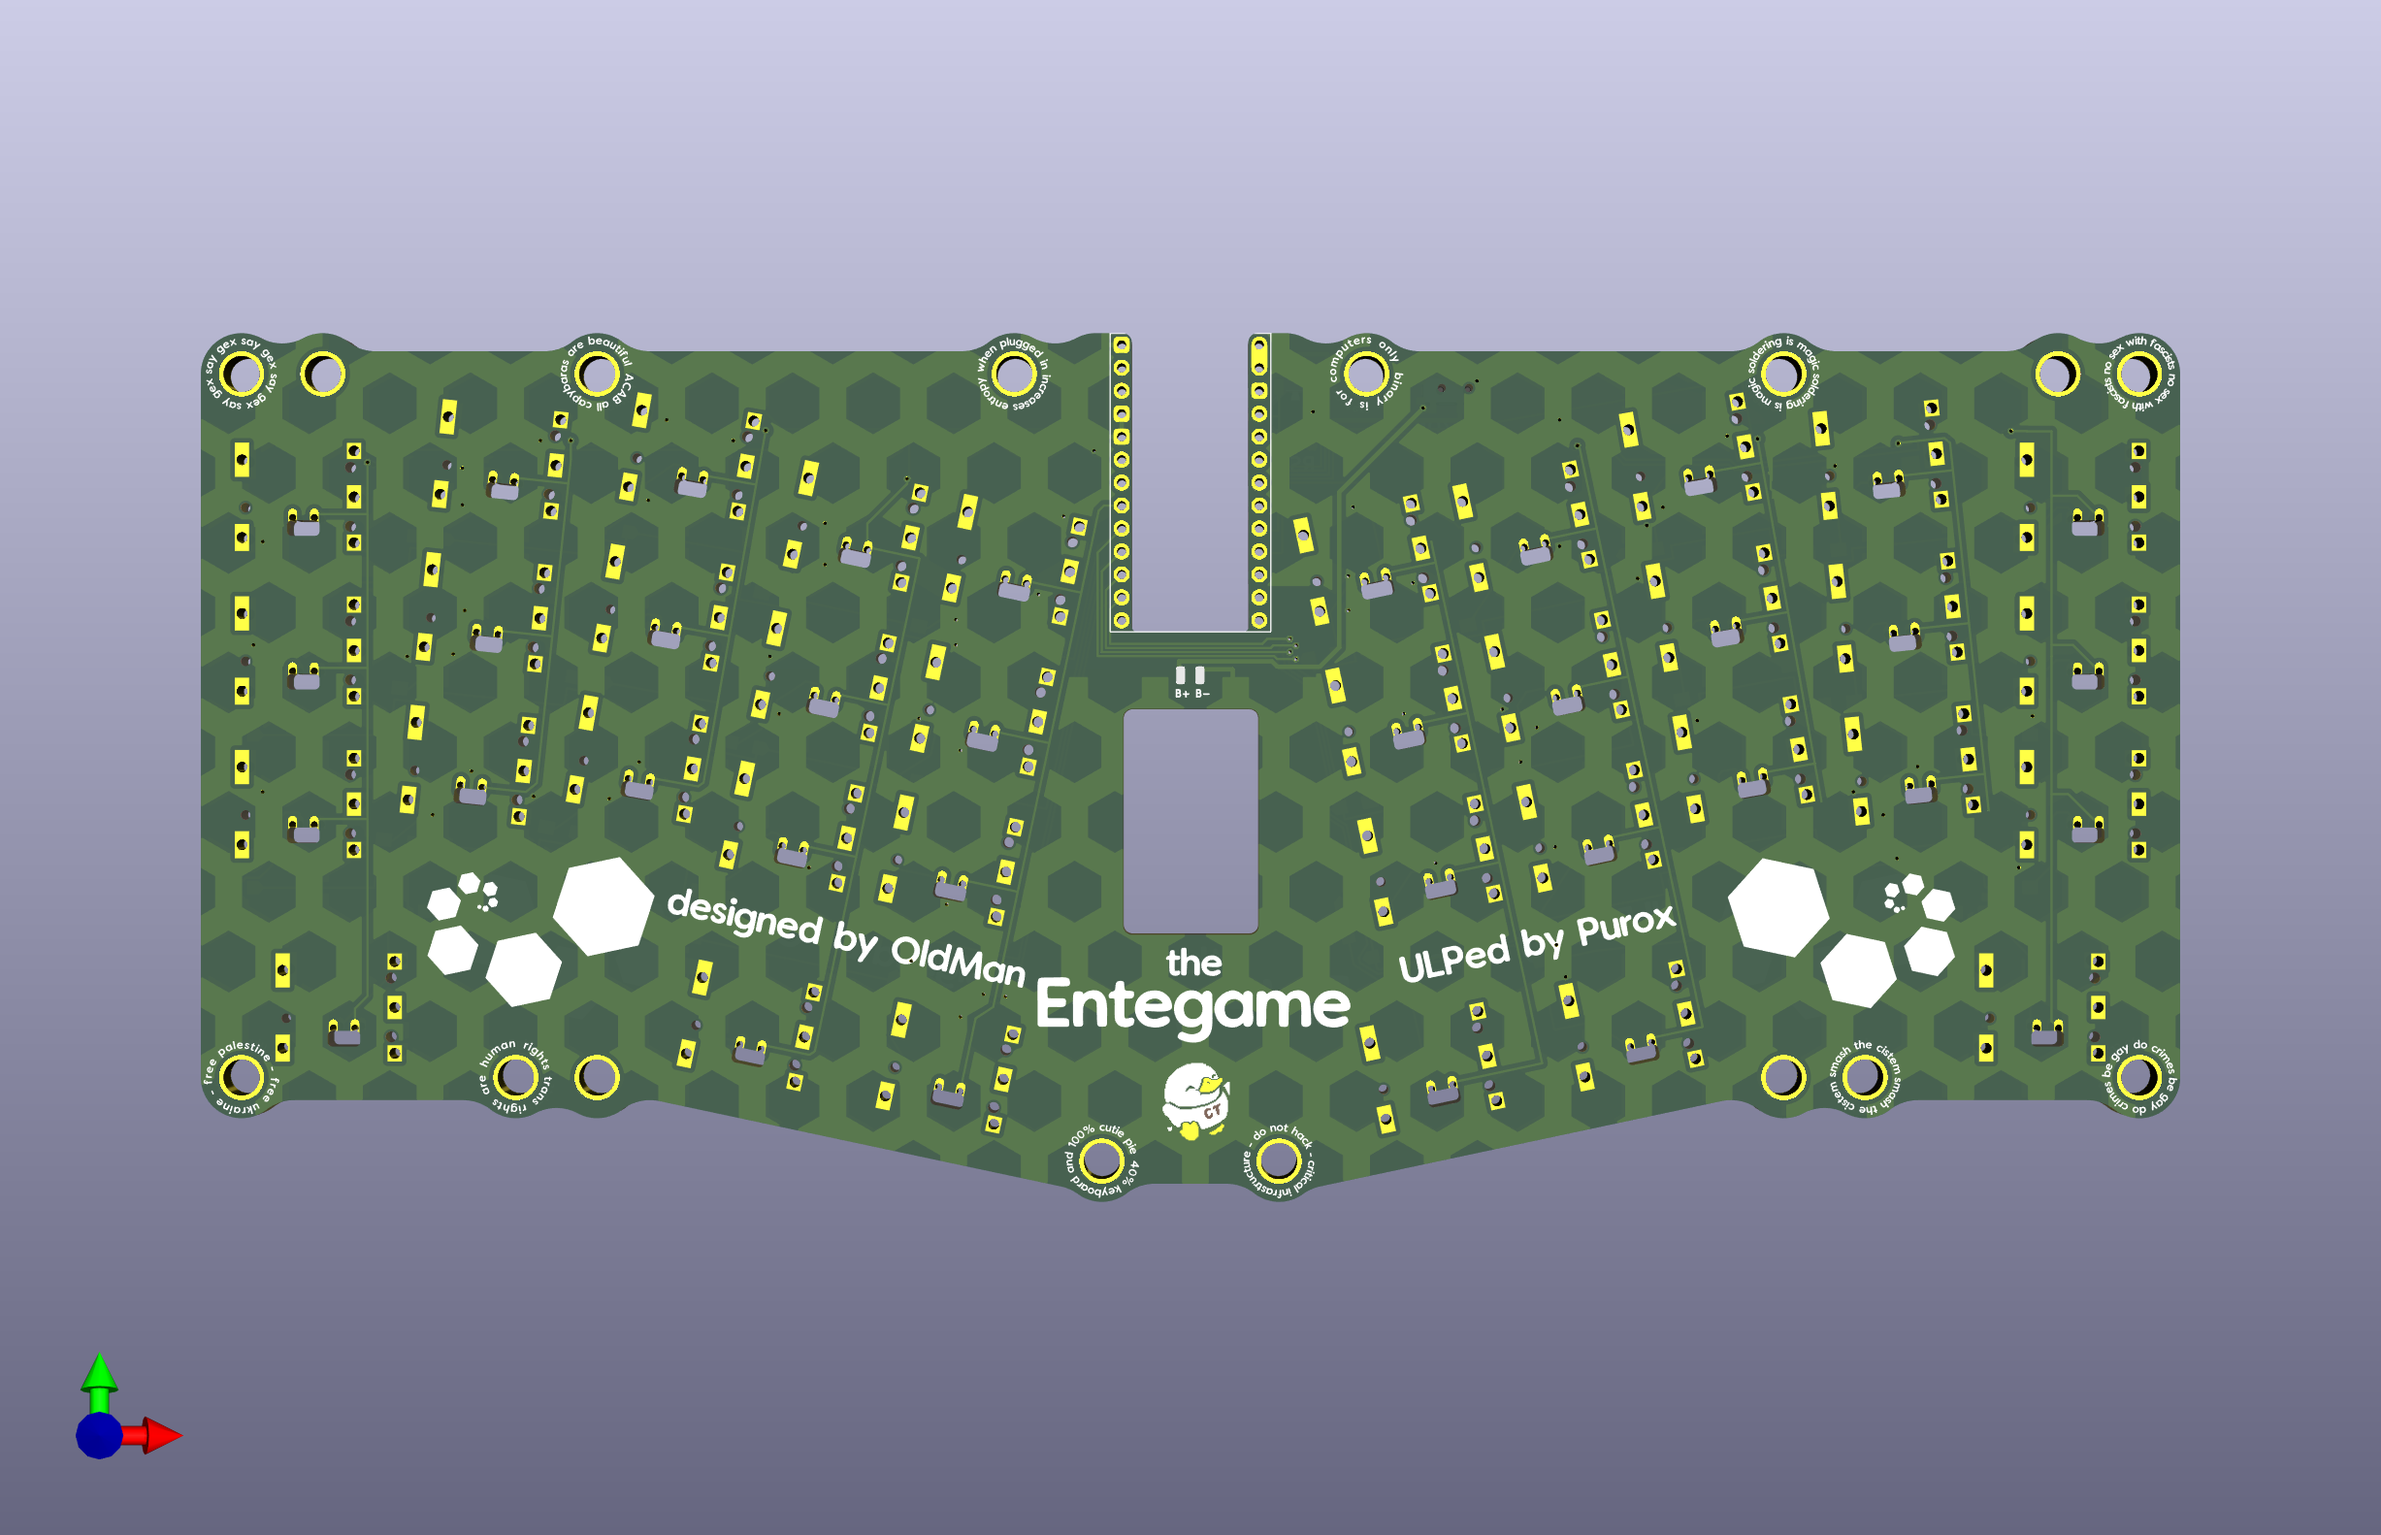
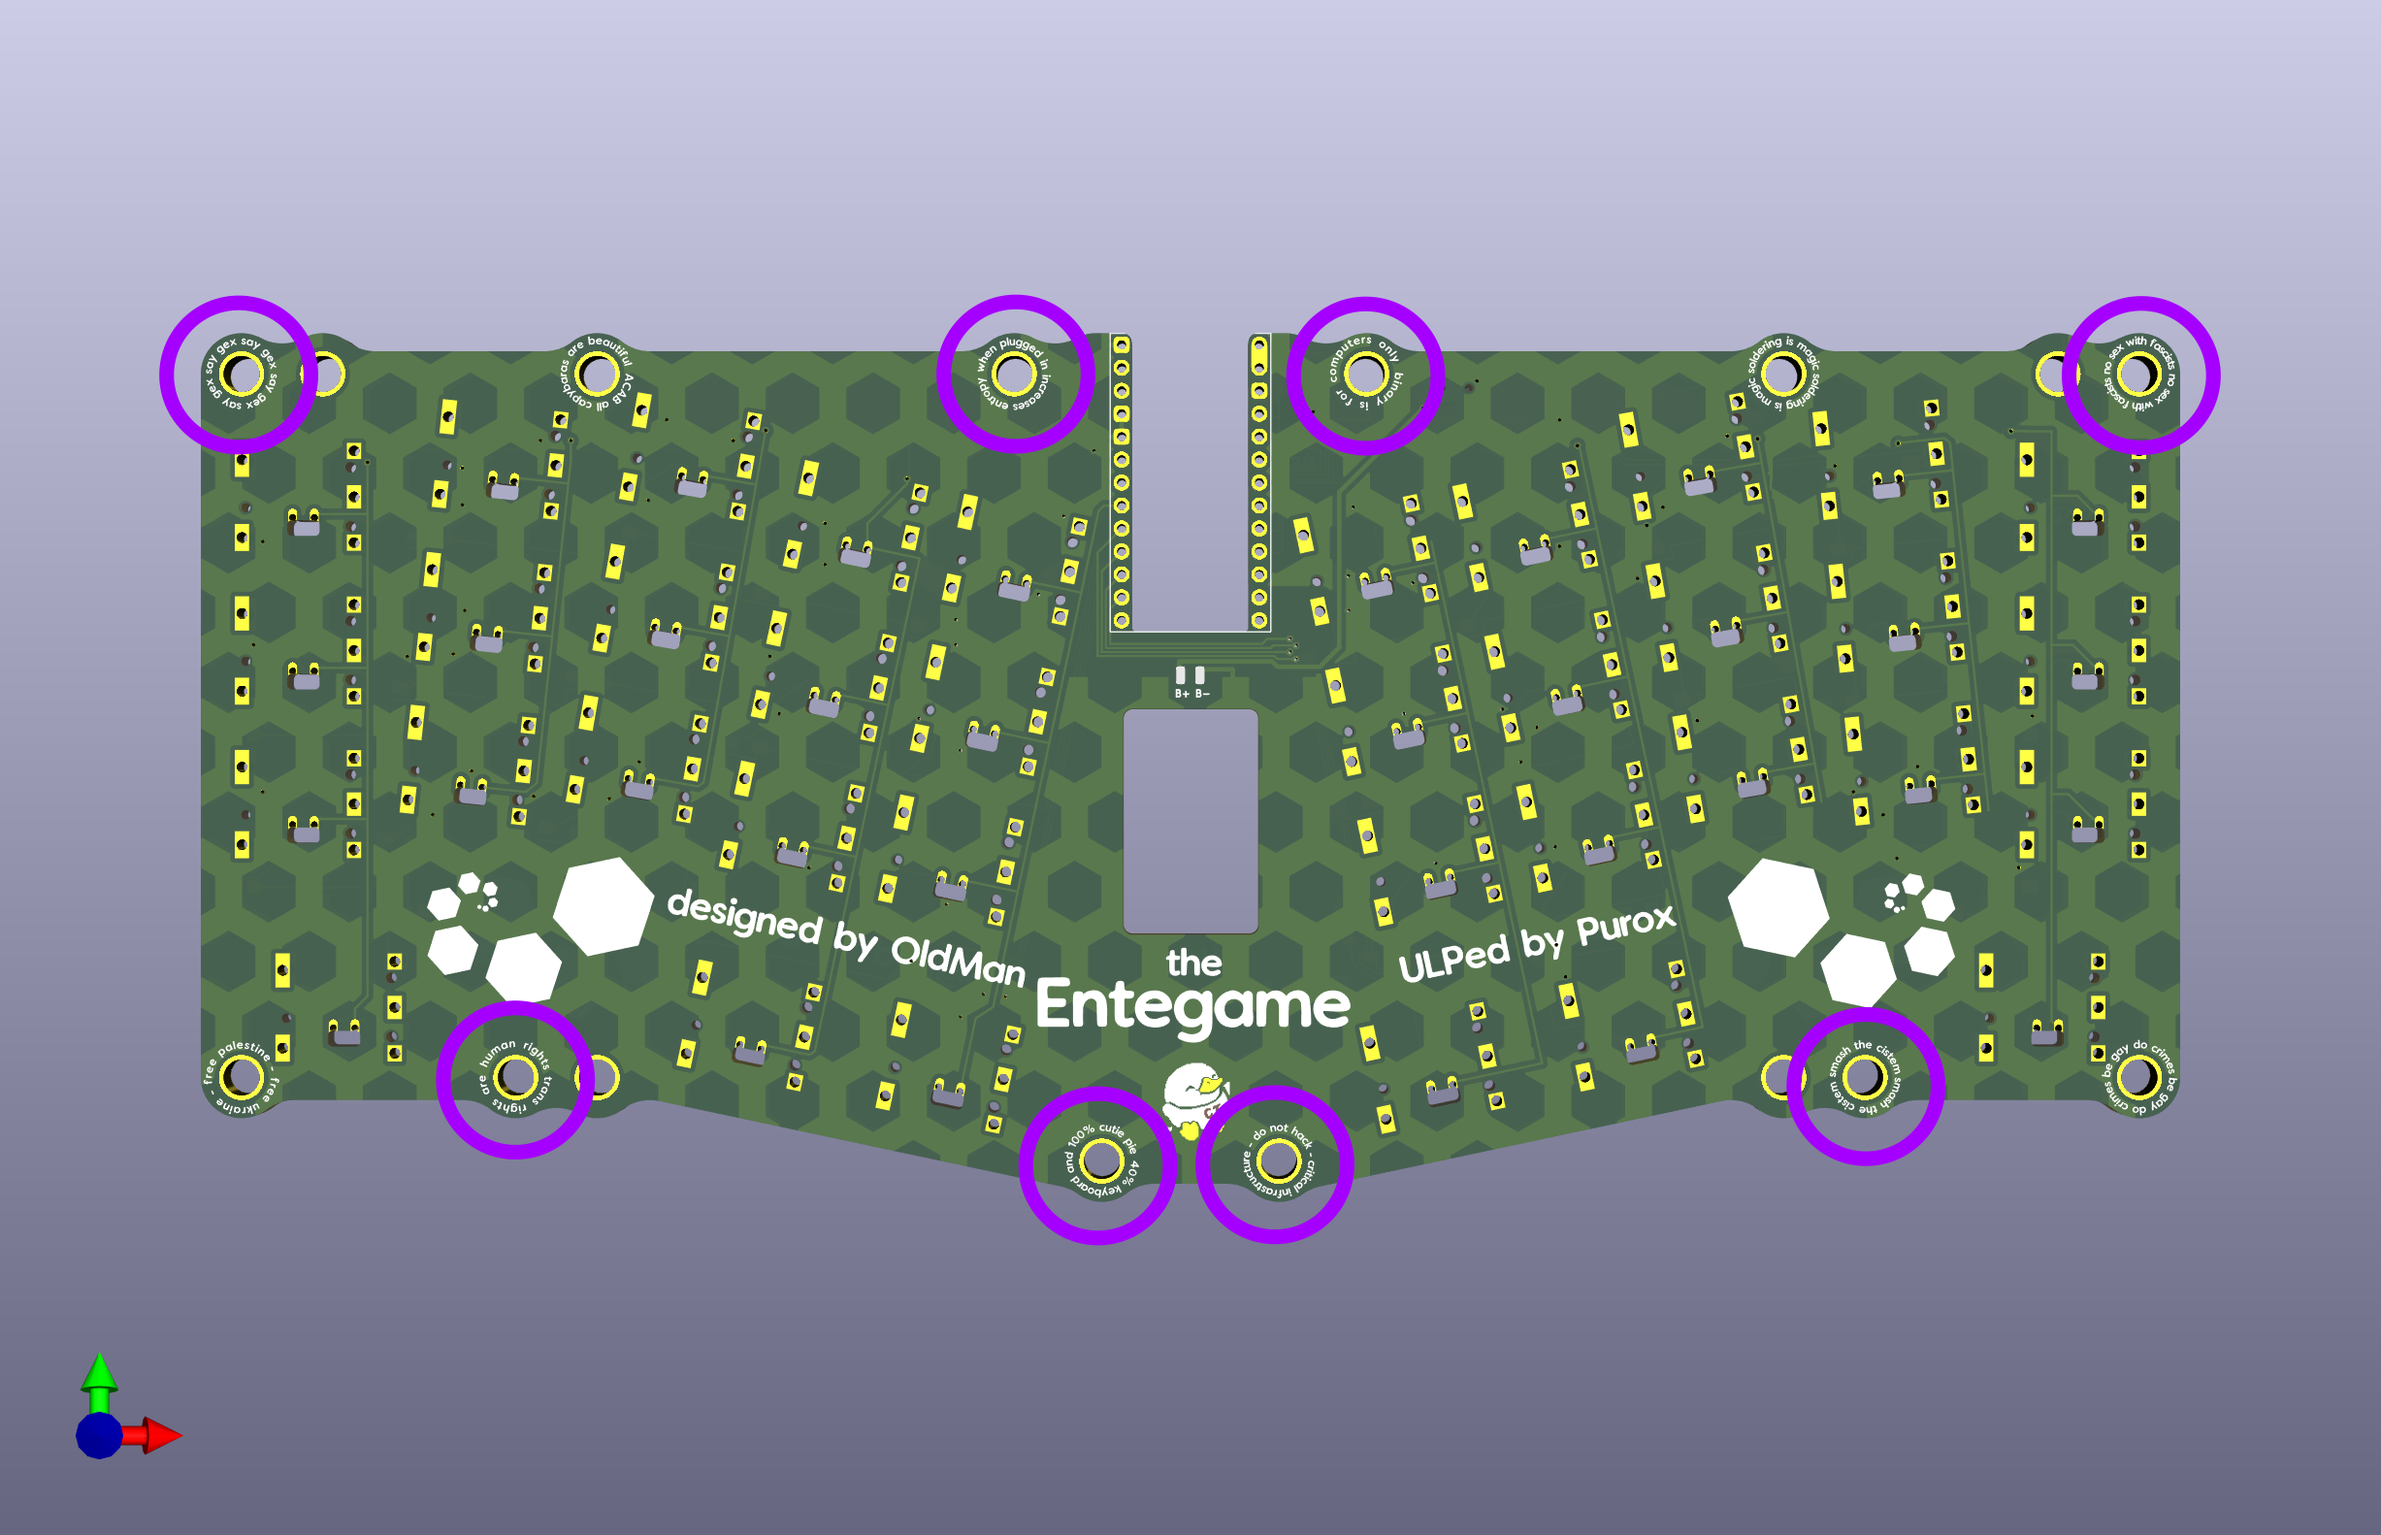
added readme

diff --git a/README.md b/README.md
@@ -2,7 +2,30 @@
 
 # This is a modified version of the BLE-mod of the ENDGAME keyboards to give it Cherry ULP Switches
 
-This is untested! Proceed at your own risk!
+## Buildguide
+The soldering of the switches has to be done with care.
+I recommend to solder the switches by hand with a soldering iron, do not use a small hotplate. If you use a hotplate the thin PCB will bend due to the combination of thermal expansion of the board and the board being warmer on the side of the hotplate.
+As it cools down the solder solidifies and the switch will hold the PCB in its bend shape.
+I like to solder them by placing the switch on the PCB and soldering at least one of the accessible solder pads from the front.
+Then turn the PCB around such that you can see the solderpads for the reset button and solder the remaining pads from the bottom.
+Solder the pads on the PCB as well as the ones through the cutout.
+Be careful not to use to much solder when soldering the pads of the switches. If you use too much solder the switch will not work anymore. Try with one and see whether it still works before soldering in all the switches and potentially ruining all your switches.
+
+Solder the positive side of the battery (red wire) to the pad with the `+` next to it. The negative side of the battery (black wire) needs to be soldered to the pad with the `-` sign.
+
+Solder the [Nice!Nano](https://nicekeyboards.com/nice-nano/) or a clone with its components face up in the cutout on the PCB. See the pictures above for clarification.
+
+The last things to solder are [MSK12C02 on-off switche](https://www.lcsc.com/product-detail/C431540.html), the [5.1x5.1mm reset button](https://www.lcsc.com/product-detail/C318884.html) and the 36 [SOD123 / 1N4148W T4 diodes](https://www.lcsc.com/product-detail/C917030.html).
+
+Now it is time to install keycaps. You can get them printed at JLC3DP for relatively little money.
+There are a few choices for ULP-keycaps:
+
+- [Distorted Ellipsoidal Saddle (DES)](https://github.com/ThePurox/Cherry-ULP-DES-Keycaps)
+- [Chicago Stenographer (CS)](https://github.com/ThePurox/Cherry-ULP-Chicago-Stenographer-Keycaps)
+- [Subliminal Contradiction (SC)](https://github.com/ThePurox/Subliminal-Contradiction-Cherry-ULP)
+- [Fooker's ULP-caps](https://github.com/fooker/mnhttn/tree/main/keycaps)
+
+Some of the keycaps would collide with the mounting holes for the rubber grommets of oldman's original design. Therefore I advise to install rubber grommets only in the holes marked in the following picture.
 
 ![front view of the PCB](001%20PCB/front.png)
 
@@ -15,6 +38,9 @@ This is untested! Proceed at your own risk!
 ![side view of the case](004%20IMAGES/ulp_case_alu_2.webp)
 
 ![glass](004%20IMAGES/ulp_case_alu_4.webp)
+
+## Find below the readme of the BLE-fork of the original Endgame
+
 
 # This is amodified version of THE ENDGAME keyboard to make it wireless
 
